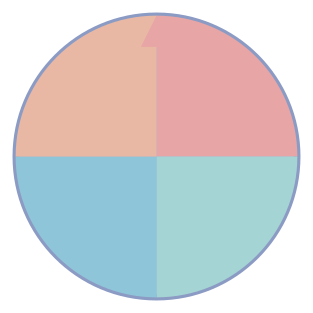
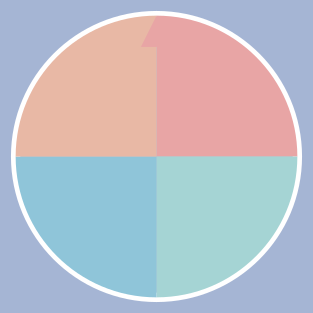
아이콘 배경색 및 테두리 개선

diff --git a/index.html b/index.html
@@ -9,17 +9,18 @@
     <link rel="icon" type="image/svg+xml" href="favicon.svg">
     
     <!-- Apple Touch Icon (iOS Safari) - PNG 필요 -->
-    <link rel="apple-touch-icon" sizes="180x180" href="apple-touch-icon.png">
-    <link rel="apple-touch-icon" sizes="152x152" href="apple-touch-icon.png">
-    <link rel="apple-touch-icon" sizes="144x144" href="apple-touch-icon.png">
-    <link rel="apple-touch-icon" sizes="120x120" href="apple-touch-icon.png">
-    <link rel="apple-touch-icon" sizes="114x114" href="apple-touch-icon.png">
-    <link rel="apple-touch-icon" sizes="76x76" href="apple-touch-icon.png">
-    <link rel="apple-touch-icon" sizes="72x72" href="apple-touch-icon.png">
-    <link rel="apple-touch-icon" sizes="60x60" href="apple-touch-icon.png">
-    <link rel="apple-touch-icon" sizes="57x57" href="apple-touch-icon.png">
-    <!-- SVG는 fallback으로만 사용 -->
-    <link rel="apple-touch-icon" href="favicon.svg">
+    <!-- precomposed를 사용하면 iOS가 자동으로 배경을 추가하지 않음 -->
+    <link rel="apple-touch-icon-precomposed" sizes="180x180" href="apple-touch-icon.png">
+    <link rel="apple-touch-icon-precomposed" sizes="152x152" href="apple-touch-icon.png">
+    <link rel="apple-touch-icon-precomposed" sizes="144x144" href="apple-touch-icon.png">
+    <link rel="apple-touch-icon-precomposed" sizes="120x120" href="apple-touch-icon.png">
+    <link rel="apple-touch-icon-precomposed" sizes="114x114" href="apple-touch-icon.png">
+    <link rel="apple-touch-icon-precomposed" sizes="76x76" href="apple-touch-icon.png">
+    <link rel="apple-touch-icon-precomposed" sizes="72x72" href="apple-touch-icon.png">
+    <link rel="apple-touch-icon-precomposed" sizes="60x60" href="apple-touch-icon.png">
+    <link rel="apple-touch-icon-precomposed" sizes="57x57" href="apple-touch-icon.png">
+    <!-- fallback -->
+    <link rel="apple-touch-icon" href="apple-touch-icon.png">
     
     <!-- Web App Manifest (Android Chrome) -->
     <link rel="manifest" href="manifest.json">
